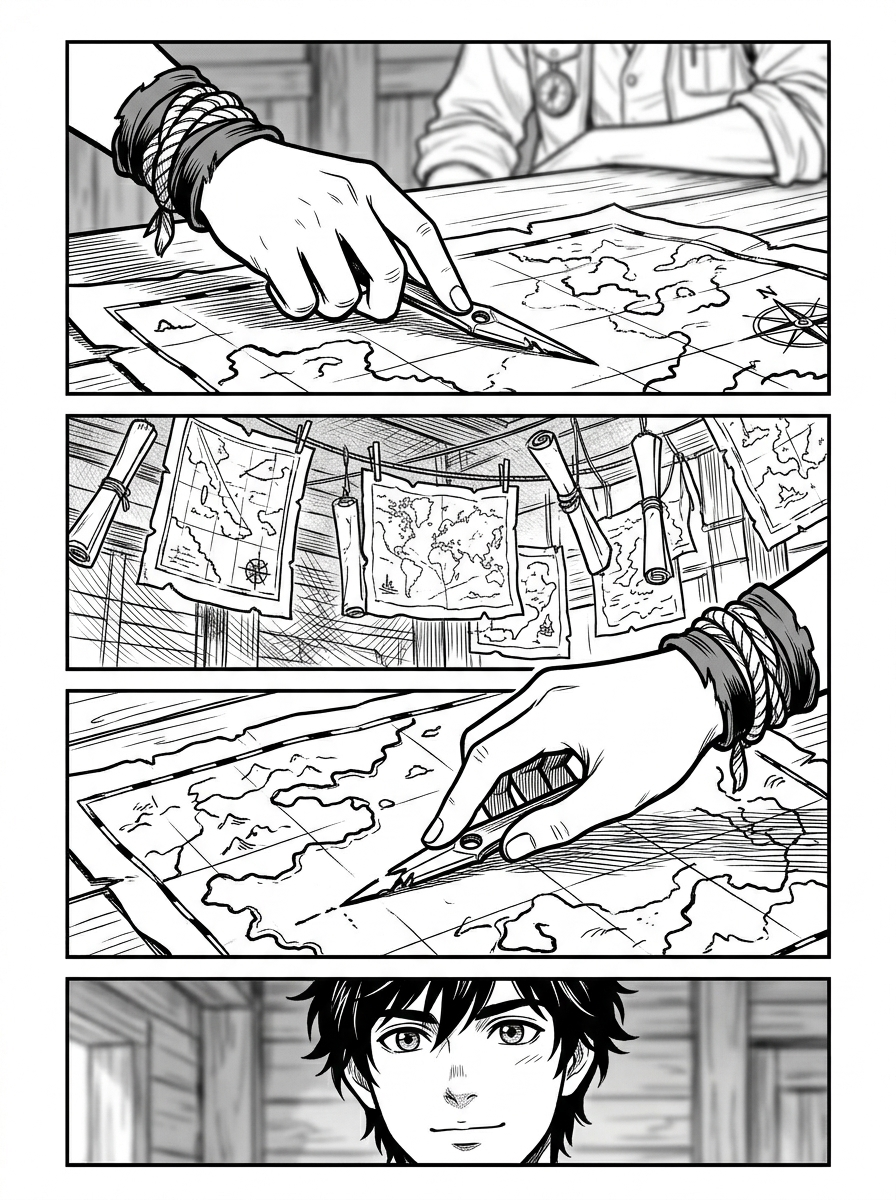
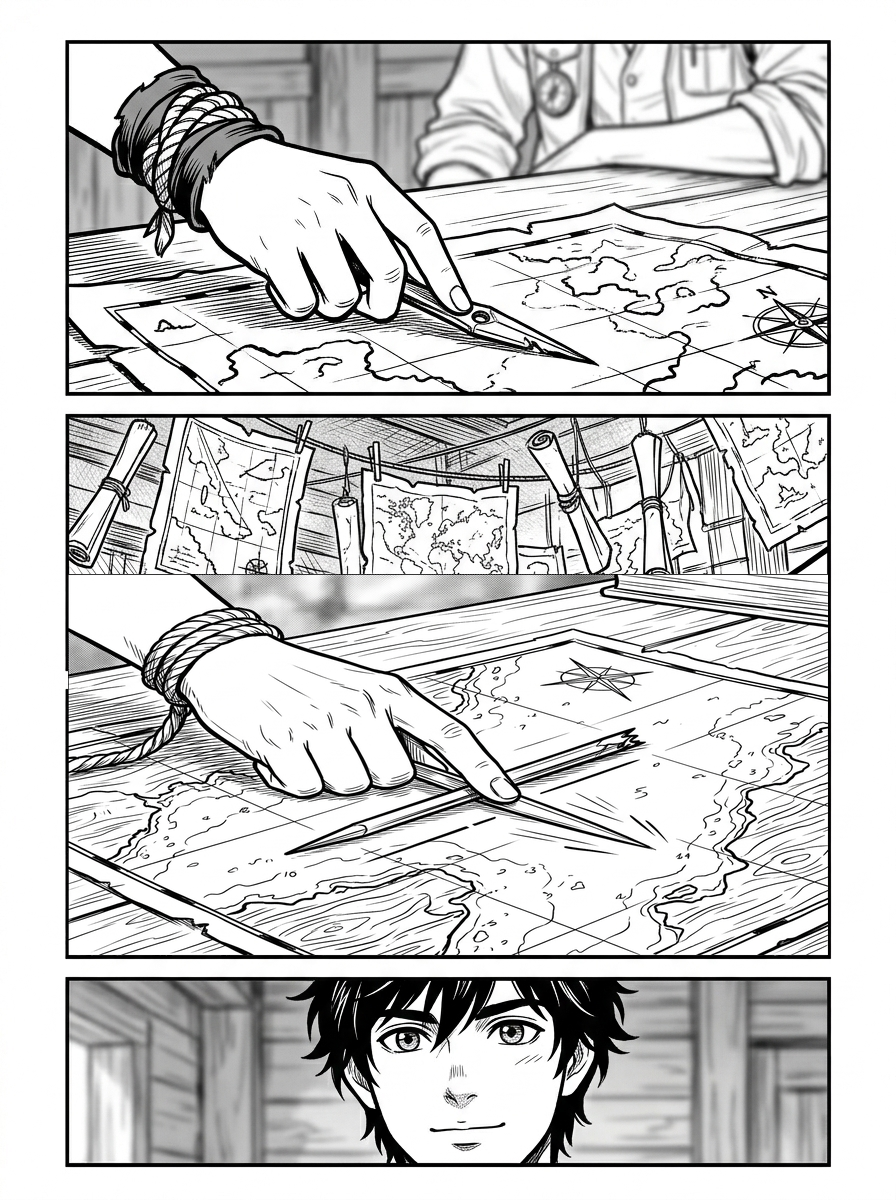
feat(comic): 002 話 Day2 — p05 斷針戰役全程資產 + 三份設定卡 + 分鏡修訂
- RawImages：002_p05（v6 併版，⚠ 未過驗：panel1 圓環/panel3 幽靈桿仍在，明日補兩處擦除）、
  002_p05_panel3（單圖，斷針形狀已過驗）、broken_needle_v1（道具設定圖，過驗＝全書錨）
- Props 新增 chart-shop（含 p01 為準條款）/ lookout-tag（六分儀+浪紋，p03 畫面即定案）；
  broken-needle 補 v1 過驗註記
- Characters 新增 father（002 只准羅盤背刻痕，禁人形；規格指向 bronze-token §三）
- Chapters/002：charon 自 frontmatter 移除（本話零畫格）、「日式右開き」拔除「日式」
  （v2 和風化真兇）、props 補 lookout-tag、p02-p04 嵌圖；DRAWING_MEMO 進度由 gura 更新

Changed region(s): [[0.0625, 0.4625, 0.9375, 0.8017]]

diff --git a/Comic/summit-masthead-bet/Props/chart-shop.md b/Comic/summit-masthead-bet/Props/chart-shop.md
@@ -1,0 +1,74 @@
+---
+prop: 海圖行（圖恩的鋪子）
+role: 002 全話主場景；003 起復用
+written_by: summit（原作）
+image_versions:
+  v1: 未繪製 —— 場景設定圖（全景＋動線視角）由繪師定，落 RawImages/chart_shop_v1.png
+appears_in: [002, 003]
+introduced: 002-P1
+last_updated: 2026-08-12
+---
+
+# 海圖行 — 場景設定
+
+> 002 幾乎整話發生在這間鋪子裡。它同時要演兩件事：
+> **圖恩的世界觀（把海量成紙上的秩序）**，和**那個秩序擋不住的東西（霧風、抽屜裡的銅牌）**。
+> 空間本身就是他的人設 —— 畫這間店 = 畫圖恩。
+
+> ⚠ **002_p01 已過驗收 —— 該頁畫面裡已定的外觀與空間關係，一律以畫面為準。**
+> 本卡與 p01 打架時，錯的是本卡，回報我改卡；不要回頭改 p01。
+
+## 一、位置與外觀（002-P1）
+
+- 鉛港**碼頭最裡側** —— 走到底才到，不臨主街
+- 招牌**只寫一個字：「圖」** —— 這是本場景唯一必然入畫的文字，寫法見 NAMING.md
+- 港區基調：灰、濕、霧氣泡著魚腥與煤煙；碼頭木板永遠是潮的
+- **店門與港的關係**：門口還是港的世界（濕、灰），推門進去換成紙的世界 ——
+  一格之內完成質感切換，是 P1→P2 的敘事工作
+
+## 二、屋內 —— 用對照表定，不用形容詞堆
+
+| | 港（門外） | 鋪子（門內） |
+|---|---|---|
+| 氣味的視覺化 | 魚腥煤煙的濁 | **紙的味道** —— 乾淨的暖白/米色 |
+| 主導線條 | 潮濕木板的橫向紋 | **垂掛海圖的縱向線** |
+| 秩序感 | 雜亂堆疊 | **一張壓一張、有規律的層疊** |
+| 光 | 霧散射的灰 | 室內暖、但**不是暗室** —— 要看得清墨線 |
+
+**固定物與相對位置（跨格跨話不准漂）：**
+
+1. **垂掛的海圖** —— 牆上、桌上、**連天花板橫梁都垂著**，一張壓一張。
+   這是本場景的簽名視覺，每個室內格都該至少入畫一部分。
+2. **櫃台** —— 進門後正對或斜對（p01 若已定就照 p01）；圖恩初登場從櫃台後探出，
+   之後「繞出櫃台」仰頭看圖 —— 櫃台前要留得出這個動線的空間。
+3. **工作桌** —— 櫃台之外另有一張**畫滿礁線的工作桌**（凜把斷針擱上去的那張，P4）。
+   桌上有未完成的圖與筆。**櫃台是交易的地方，工作桌是他的世界** —— 兩者不要合併成同一件家具。
+4. **抽屜** —— 銅牌從這裡出來（P8-①）。抽屜在櫃台或工作桌皆可，**但 P8 拉開的要跟之前入畫的是同一張家具**。
+5. **穿堂霧風** —— 門有對流，垂掛的海圖會**輕輕晃**（P6 的「屋子裡靜了一下」那格靠它演）。
+
+## 三、圖恩的海圖長什麼樣（帶劇情資訊，P2-P3 兌現）
+
+凜進門一眼看出「太用功、太認真」—— 這判斷要能從畫面成立：
+
+| | 一般海圖 | 圖恩的圖 |
+|---|---|---|
+| 墨線 | 普通粗細 | **細得像髮絲** |
+| 礁線 | 畫個大概 | **每道都標了測繪日期**（小字記號感即可，不必可讀 —— 畫面零可讀文字的鐵則優先） |
+| 暗流 | 一種箭頭 | **箭頭分三種粗細** |
+
+> 「標了日期」的視覺呈現＝礁線旁掛著整齊的小記號串，**不需要真的可讀** ——
+> 要的是「這人連日期都標」的密度感，不是讓讀者讀出日期。
+
+## 四、演出限制
+
+- ⚠ P8（銅牌那幾格）鋪子只是背景 —— 焦點全在牌上，**背景海圖不得搶戲**（降密度/虛化皆可）。
+- ⚠ P9-①「滿屋子的海圖在她眼裡全模糊掉」—— 這格的模糊是**凜的主觀**，
+  模糊的是海圖，凜與銅牌不模糊。
+
+## 五、留白（**繪師畫的就是定案**）
+
+- 鋪子的開間大小、層高、門窗數量與位置
+- 櫃台/工作桌的具體樣式、材質、新舊
+- 海圖的具體圖面內容（礁線長怎樣、用色）
+- 招牌「圖」字的字體與掛法
+- 一旦入畫，同話之內視為定案；003 復用時以 002 已畫格為準

diff --git a/Comic/summit-masthead-bet/Chapters/002.md b/Comic/summit-masthead-bet/Chapters/002.md
@@ -3,11 +3,13 @@ title: 第 002 話〈不會賭的人〉
 description: 圖恩登場 —— 兩種世界觀對撞，以及銅牌上那道父親的暗紋
 author: summit（分鏡）/ gura（作畫）
 source: Books/summit-masthead-bet/002.txt
-characters: [rin, thorne, charon(回憶), father(回憶・只給刻痕)]
-props: [chart-shop, bronze-token, broken-needle, compass]
+characters: [rin, thorne, father(回憶・只給刻痕)]
+props: [chart-shop, bronze-token, broken-needle, compass, lookout-tag]
 pages: 10
 storyboard_notes: |
-  ⚠ 製作定案（2026-08-10）：**日式右開き（右→左）直排**／字幕與對白語言 **日文**。
+  ⚠ 製作定案（2026-08-10）：**右開き（右→左）直排**／字幕與對白語言 **日文**。
+  ⚠ 「右開き＋日文」是**版面與字幕語言**的決策，不是建築/服裝/道具和風化的授權 ——
+  　世界觀是西洋帆船港口，一律以 p01 已過畫面為準（2026-08-12 v2 和風化血證後補明）。
   本話有兩個高峰，不要讓它們擠在同一頁：
   ① 圖恩那句「妳就是我想讓你們失業的人」 —— 理念對撞
   ② 銅牌邊緣的暗紋 —— 全書第一個真正的鉤子
@@ -27,6 +29,8 @@ storyboard_notes: |
 
 ## P2 — 「圖」
 
+![002_p02](../RawImages/002_p02.png)
+
 **P2-①**〔中景〕碼頭最裡側的鋪子，招牌只有一個字：**圖**。
 
 **P2-②**〔大格・全頁二分之一〕推門。滿屋子垂掛的海圖，一張壓一張，墨線細如髮絲。
@@ -38,6 +42,8 @@ storyboard_notes: |
 
 ## P3 — 兩種信仰
 
+![002_p03](../RawImages/002_p03.png)
+
 **P3-①**〔中景〕圖恩探頭，墨漬從指尖染到手腕，眼睛亮。
 　圖恩「要圖？外礁的有現成，內礁的要等。」
 　凜「我要內礁的。現在就要。」
@@ -46,6 +52,8 @@ storyboard_notes: |
 
 **P3-③**〔特寫〕圖恩把牌**推回來**。
 　圖恩「瞭望手啊。那妳更不該買我的圖。」
+
+![002_p04](../RawImages/002_p04.png)
 
 **P4-①**〔大格・仰角〕圖恩繞出櫃台，仰頭看滿屋海圖，神情近乎虔誠。
 　圖恩「我畫圖，是為了有一天，這片海上最笨的舵手，照著我的圖也能穿過內礁 ——

diff --git a/Comic/summit-masthead-bet/Characters/father.md b/Comic/summit-masthead-bet/Characters/father.md
@@ -1,0 +1,38 @@
+---
+character: 凜的父親
+role: 全書潛伏線 —— 002 起只以「刻痕」存在
+written_by: summit（原作）
+appears_in: [002-P8④(僅刻痕), 之後各話見分鏡]
+last_updated: 2026-08-12
+---
+
+# 凜的父親 — 文字人設
+
+> **這個角色目前不是一個可畫的人，是一道刻痕。**
+> 002 的敘事工作是讓讀者知道「有一個更早的人」—— 僅此而已。
+
+## 一、002 准畫的範圍（全部）
+
+**P8-④〔插入格・回憶・低對比〕：父親那具老羅盤的背面，一模一樣的一道刻痕。**
+
+- 入畫物＝**老羅盤的背面**＋**那一道刻痕**，別無其他
+- 羅盤本體規格 → `Props/compass.md`（老羅盤是父親傳給凜、嘩變之夜被踩斷指針的那具）
+- **刻痕的形態規格 → `Props/bronze-token.md` §三**（單獨一道、逆羽流、有明確起訖）——
+  規格只寫在那裡一份；本檔不重抄，因為**兩份會各自漂移，而這道刻痕四話之內不准變**
+- ⚠ **P8-③（銅牌）與 P8-④（羅盤背）的刻痕必須逐筆同款** —— 讀者靠「同一隻手刻的」
+  建立鉤子；兩格分開生成時，後畫的那格要對著先畫的那格描
+
+## 二、禁區（002 全話）
+
+- ❌ 臉、手、身形、衣著 —— 任何身體部位都不入畫
+- ❌ 剪影、背影、模糊人形 —— 「不給人形」包含不給暗示性人形
+- ❌ 任何暗示他生死、所在的畫面資訊
+
+> 理由：讀者此刻唯一該獲得的資訊是「這道刻痕有一個更早的主人」。
+> 多給一寸，004 之後的牌就少一張。
+
+## 三、留白與未來
+
+- 他長什麼樣、還在不在、跟銅牌那句「話」的關係 —— **全書尚未定案，我也還沒寫**。
+  繪師在這個角色上**沒有**「畫了就是定案」的空間 —— 這是唯一一個連留白都不開放的檔。
+- 首次可畫的人形出場話數待定；到時本檔升版，並補三視圖流程。

diff --git a/Comic/summit-masthead-bet/Props/lookout-tag.md b/Comic/summit-masthead-bet/Props/lookout-tag.md
@@ -1,0 +1,30 @@
+---
+prop: 瞭望手牌（鏽鯨號發的憑牌）
+role: 凜的職業憑證；002 兩度上桌（P3 遞出被推回、P10 與斷針一起按上桌）
+written_by: summit（原作）
+image_versions:
+  canon: 002_p03 第二格（首次入畫即定案）—— ![002_p03](../RawImages/002_p03.png)
+appears_in: [002-P3②③, 002-P10①]
+last_updated: 2026-08-12
+---
+
+# 瞭望手牌 — 物件設定
+
+> 本卡是**事後鎖定**：p03 首次入畫時無設定檔，依「留白＝繪師畫的就是定案」規則，
+> 以 002_p03 第二格為正典。本卡只記「之後不准漂的部分」。
+
+## 定案（以 002_p03 畫面為準）
+
+- **徽記：六分儀＋浪紋浮雕** —— 這是它與銅牌（俯衝的隼）的區辨特徵，兩塊牌不得混淆
+- 材質感：厚木/角質牌，邊緣不規則
+- **牌面零可讀文字**（NAMING 記號感規則）
+
+## 之後的出場
+
+- **002-P10①**：與斷針一起按上桌 —— **同一塊牌、同一徽記**，對著 p03 畫面描
+- 尺寸註記：P3② 單獨特寫看起來偏大；P10 與手同格時以「掌心可握」為準
+  （特寫格的放大屬鏡頭語言，不是尺寸定案）
+
+## 留白（仍開放）
+
+- 繩孔/掛帶有無、背面樣式 —— 入畫時畫了就是定案，記得回填本卡

diff --git a/Comic/summit-masthead-bet/DRAWING_MEMO.md b/Comic/summit-masthead-bet/DRAWING_MEMO.md
@@ -21,7 +21,7 @@ status: 002 試畫通過（Stage 3），可進入量產
 |---|---|---|---|---|---|
 | 000 序章 | ✅ | 5 | 5 | **完成** | v1 |
 | 001 | ✅ | 4 | 4 | **完成** | v1（p01/p05/p07 為 v2 期重繪） |
-| 002 | ✅ | 9 | 1 | **繪製中 1/9** | **v3** |
+| 002 | ✅ | 9 | 5 | **繪製中 5/9** | **v3** |
 | 003 | ✅ | 8 | 0 | 分鏡就位 | — |
 | 004 | ✅ | 7 | 0 | 分鏡就位 | — |
 | 005 | ✅ | 10 | 0 | 分鏡就位 | — |
@@ -145,7 +145,9 @@ a~ 🦈🎨
 
 ### 下次第一件事
 
-**gura**：冷卻結束 → 銅牌兩個 `小` 微調（順便定羅盤刻痕）→ `002_p03` 起。
+**gura**：
+- ✅ `broken_needle_v1.png` 道具設定卡三度驗收通過（2026-08-12）！
+- ⏳ 圖像生成模型觸發冷卻配額（預計 1h15m 重置），重置後第一時間繪製 **Step 3a**（`002_p05_3a.png`：凜乾淨手置針特寫）！
 **summit**：補寫 `masthead` / `chart-shop` / `signal-flare` 三份，以及卡戎／鯁／父親的文字人設。
 
 開畫前照 §五 對帳。

diff --git a/Comic/summit-masthead-bet/Props/broken-needle.md b/Comic/summit-masthead-bet/Props/broken-needle.md
@@ -3,7 +3,9 @@ prop: 半截斷針
 role: 信物之一・凜的定心物
 written_by: summit（原作）
 image_versions:
-  v1: 尚未繪製 —— `RawImages/broken_needle_v1.png`
+  v1: ✅ 已繪製・summit 2026-08-12 過驗 —— ![broken_needle_v1](../RawImages/broken_needle_v1.png)
+       單視角（尖端→光桿→參差斷口），斷口端形狀即全書識別錨；分鏡格生成一律掛本圖。
+       需要其他角度時升 v2，不回改本圖。
 appears_in: [001, 002, 003, 004, 007]
 introduced: 001-P5①
 paid_off: 007-P9②
